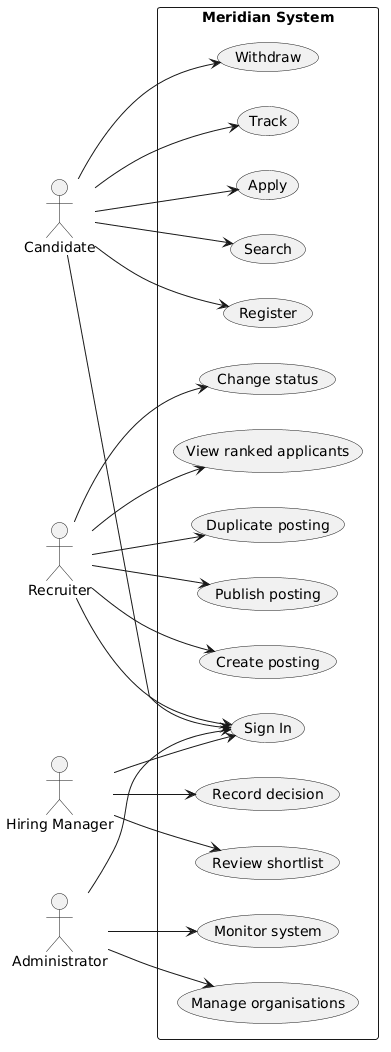
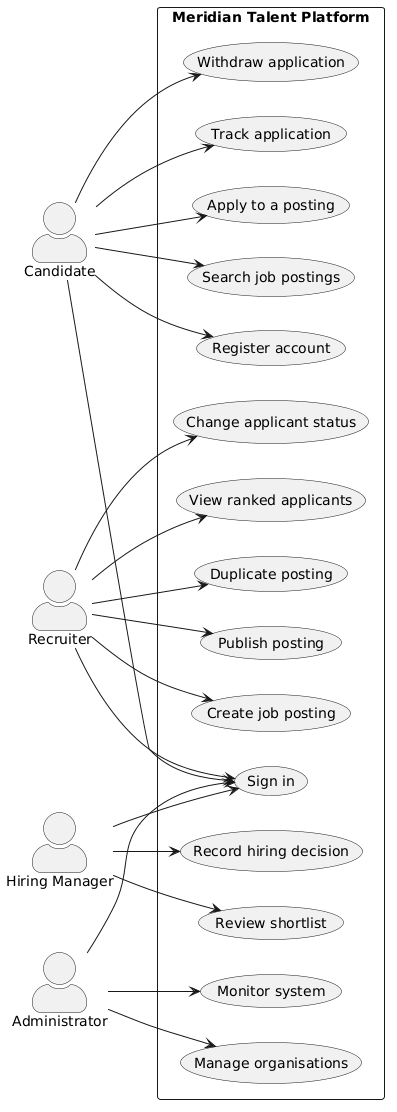
Complete use case diagram, document deferred integrations in scope, add usability testing

Changed region(s): [[0.0307, 0.0, 0.9821, 1.0], [0.0307, 0.8517, 0.2762, 0.943], [0.399, 0.9734, 0.4297, 1.0]]

diff --git a/docs/testing/usability.md b/docs/testing/usability.md
@@ -1,0 +1,67 @@
+# Usability testing
+
+## Scope
+Informal usability feedback on the Meridian Talent live site
+(`https://meridian-talent.pages.dev`), covering the candidate-facing job
+search and application experience, the sign-in flow, the AI assistant, and
+the ranked applicant table on the recruiter side.
+
+## Test method
+Feedback was gathered by having someone unfamiliar with the platform use
+the live site and share their reactions and pain points directly, rather
+than a formally timed multi-participant protocol. This session did not
+capture per-task timing or pass/fail completion data, so those are not
+reported here — the findings below are the qualitative friction points
+that came up, which is a narrower but still genuine form of evidence than
+the full stopwatch-based test originally planned.
+
+## Findings
+
+1. **Candidate-side UI feels dated next to the recruiter side.** The
+   recruiter experience was described as well organized, but the candidate
+   side was felt to need a more modern, user-friendly visual treatment by
+   comparison.
+2. **The application flow itself feels clunky.** General usability and
+   "customer service" feel of the application process was flagged as
+   needing improvement, without one single obvious blocker — more a
+   cumulative friction across the flow.
+3. **Sign-in requires a personal email account and password.** There is no
+   option to create a platform-specific username/password separate from a
+   personal email account. This was raised as a real limitation, not just
+   a preference — some users may be uncomfortable using their personal
+   email credentials to access a third-party platform.
+4. **The AI assistant is single-language.** Multi-language support was
+   raised as a gap that would broaden who can use the assistant
+   comfortably.
+5. **The ranked applicant table isn't mobile-friendly.** Details in the
+   table are hard to view at a glance on a smaller screen, requiring extra
+   effort (scrolling/zooming) to read what should be visible immediately.
+
+## What you'd change
+
+1. Refresh the candidate-side UI (spacing, typography, component styling)
+   to bring it visually in line with the more polished recruiter side.
+2. Walk through the application flow end-to-end and tighten copy, button
+   placement, and step count to reduce the "clunky" feeling reported.
+3. Add an optional platform-native sign-up (username + password) as an
+   alternative to email-account sign-in, so users aren't required to
+   reuse personal account credentials.
+4. Scope multi-language support for the AI assistant as a future
+   iteration, starting with the languages most relevant to the platform's
+   user base.
+5. Make the ranked applicant table responsive — collapse to a
+   card-per-applicant layout or horizontal scroll with sticky key columns
+   on narrow viewports, so all details remain visible without difficulty.
+
+## Result
+No single blocking failure was reported — the site is usable end-to-end —
+but several friction points recurred across the candidate experience,
+sign-in, and mobile table display. These are prioritized above roughly in
+order of how directly they affect a first-time candidate completing an
+application.
+
+## Follow-up recommendation
+A follow-up round with a second or third tester, run as a timed,
+unassisted task (per the original protocol) would strengthen this
+further by adding completion-time and success/failure data that this
+round did not capture.

diff --git a/docs/report/chapter-01-introduction.md b/docs/report/chapter-01-introduction.md
@@ -21,3 +21,5 @@ The specific objectives of the project were defined as follows:
 The scope of the Meridian project was strictly limited to the core recruitment lifecycle. It encompassed the creation and publishing of job postings, applicant registration and profile management, automated application scoring, and the final recording of hiring decisions. 
 
 The system was designed to handle the parsing of structured resume data and the matching of that data against explicitly defined job requirements. However, the scope deliberately excluded post-hiring onboarding processes, payroll integration, and internal employee performance tracking. The focus was maintained exclusively on creating a transparent, defensible bridge between the initial job posting and the final candidate selection.
+
+Three further items named in the brief's component list were considered and deliberately deferred within the time available: direct email and SMS delivery of notifications, calendar integration with Outlook and Google for interview scheduling, and an in-app interview scheduling workflow. Notification records are written to the database and the domain model already carries the fields a delivery integration would need, but no third-party provider is called. This was judged the correct trade-off for a demonstration deployment: it kept the team's remaining time on the scoring engine's accuracy and on the platform's core security posture, which were treated as the higher-priority commitments in the objectives above, rather than spreading effort across integrations that do not change how a candidate is screened or ranked.
